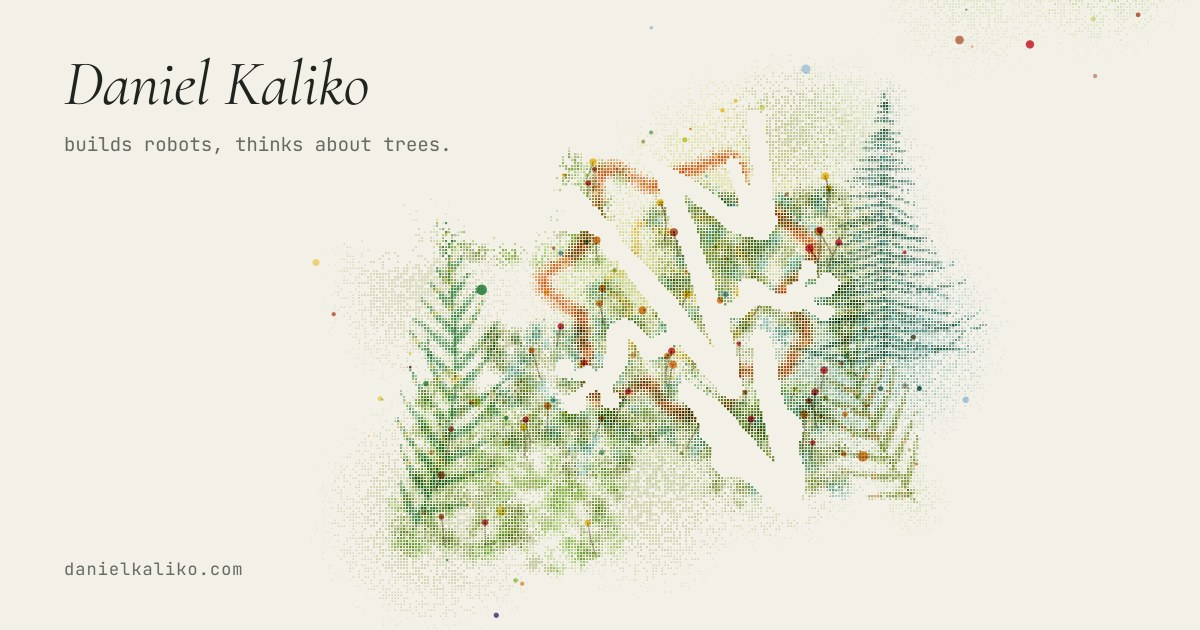
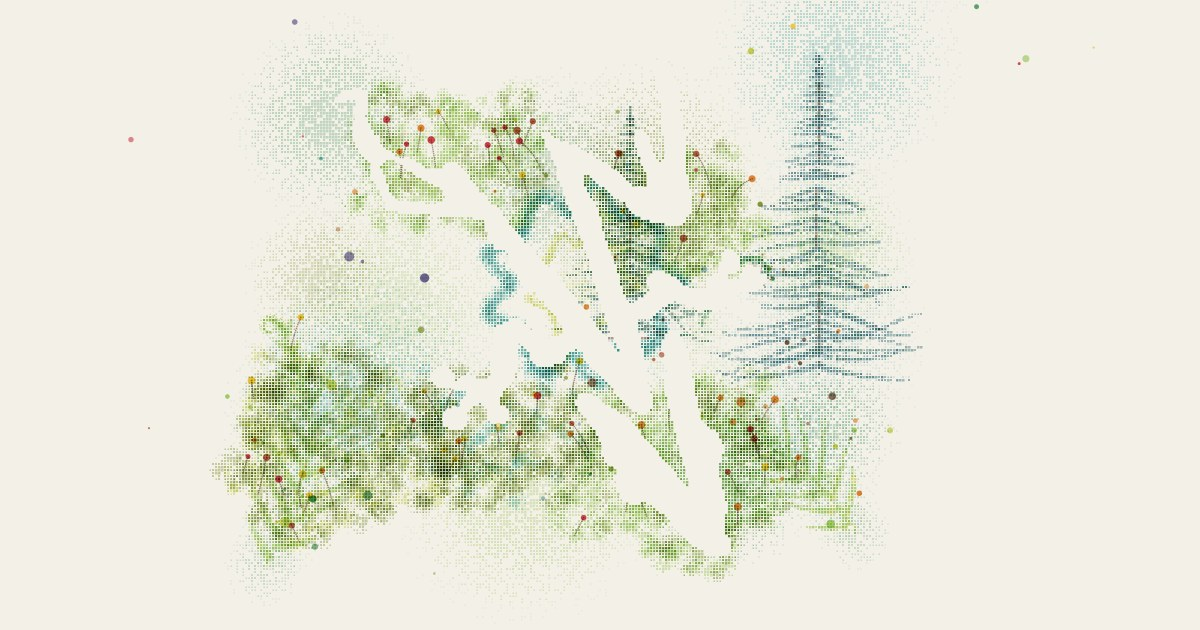
Make the link preview text-free, with the frog centered
New og.jpg (1200x630): no name or URL, the frog optically centered in
its clearing of moss, ferns and a fir, rendered from the site itself.
Alt text updated to match.

diff --git a/index.html b/index.html
@@ -23,12 +23,12 @@
     <meta property="og:image:type" content="image/jpeg" />
     <meta property="og:image:width" content="1200" />
     <meta property="og:image:height" content="630" />
-    <meta property="og:image:alt" content="A frog left as bare paper inside halftone ferns, moss and fir trees, beside the name Daniel Kaliko." />
+    <meta property="og:image:alt" content="A frog left as bare paper at the center of halftone moss, ferns and a fir tree." />
     <meta name="twitter:card" content="summary_large_image" />
     <meta name="twitter:title" content="Daniel Kaliko" />
     <meta name="twitter:description" content="builds robots, thinks about trees." />
     <meta name="twitter:image" content="https://www.danielkaliko.com/og.jpg" />
-    <meta name="twitter:image:alt" content="A frog left as bare paper inside halftone ferns, moss and fir trees, beside the name Daniel Kaliko." />
+    <meta name="twitter:image:alt" content="A frog left as bare paper at the center of halftone moss, ferns and a fir tree." />
   </head>
   <body>
     <div id="root"></div>
